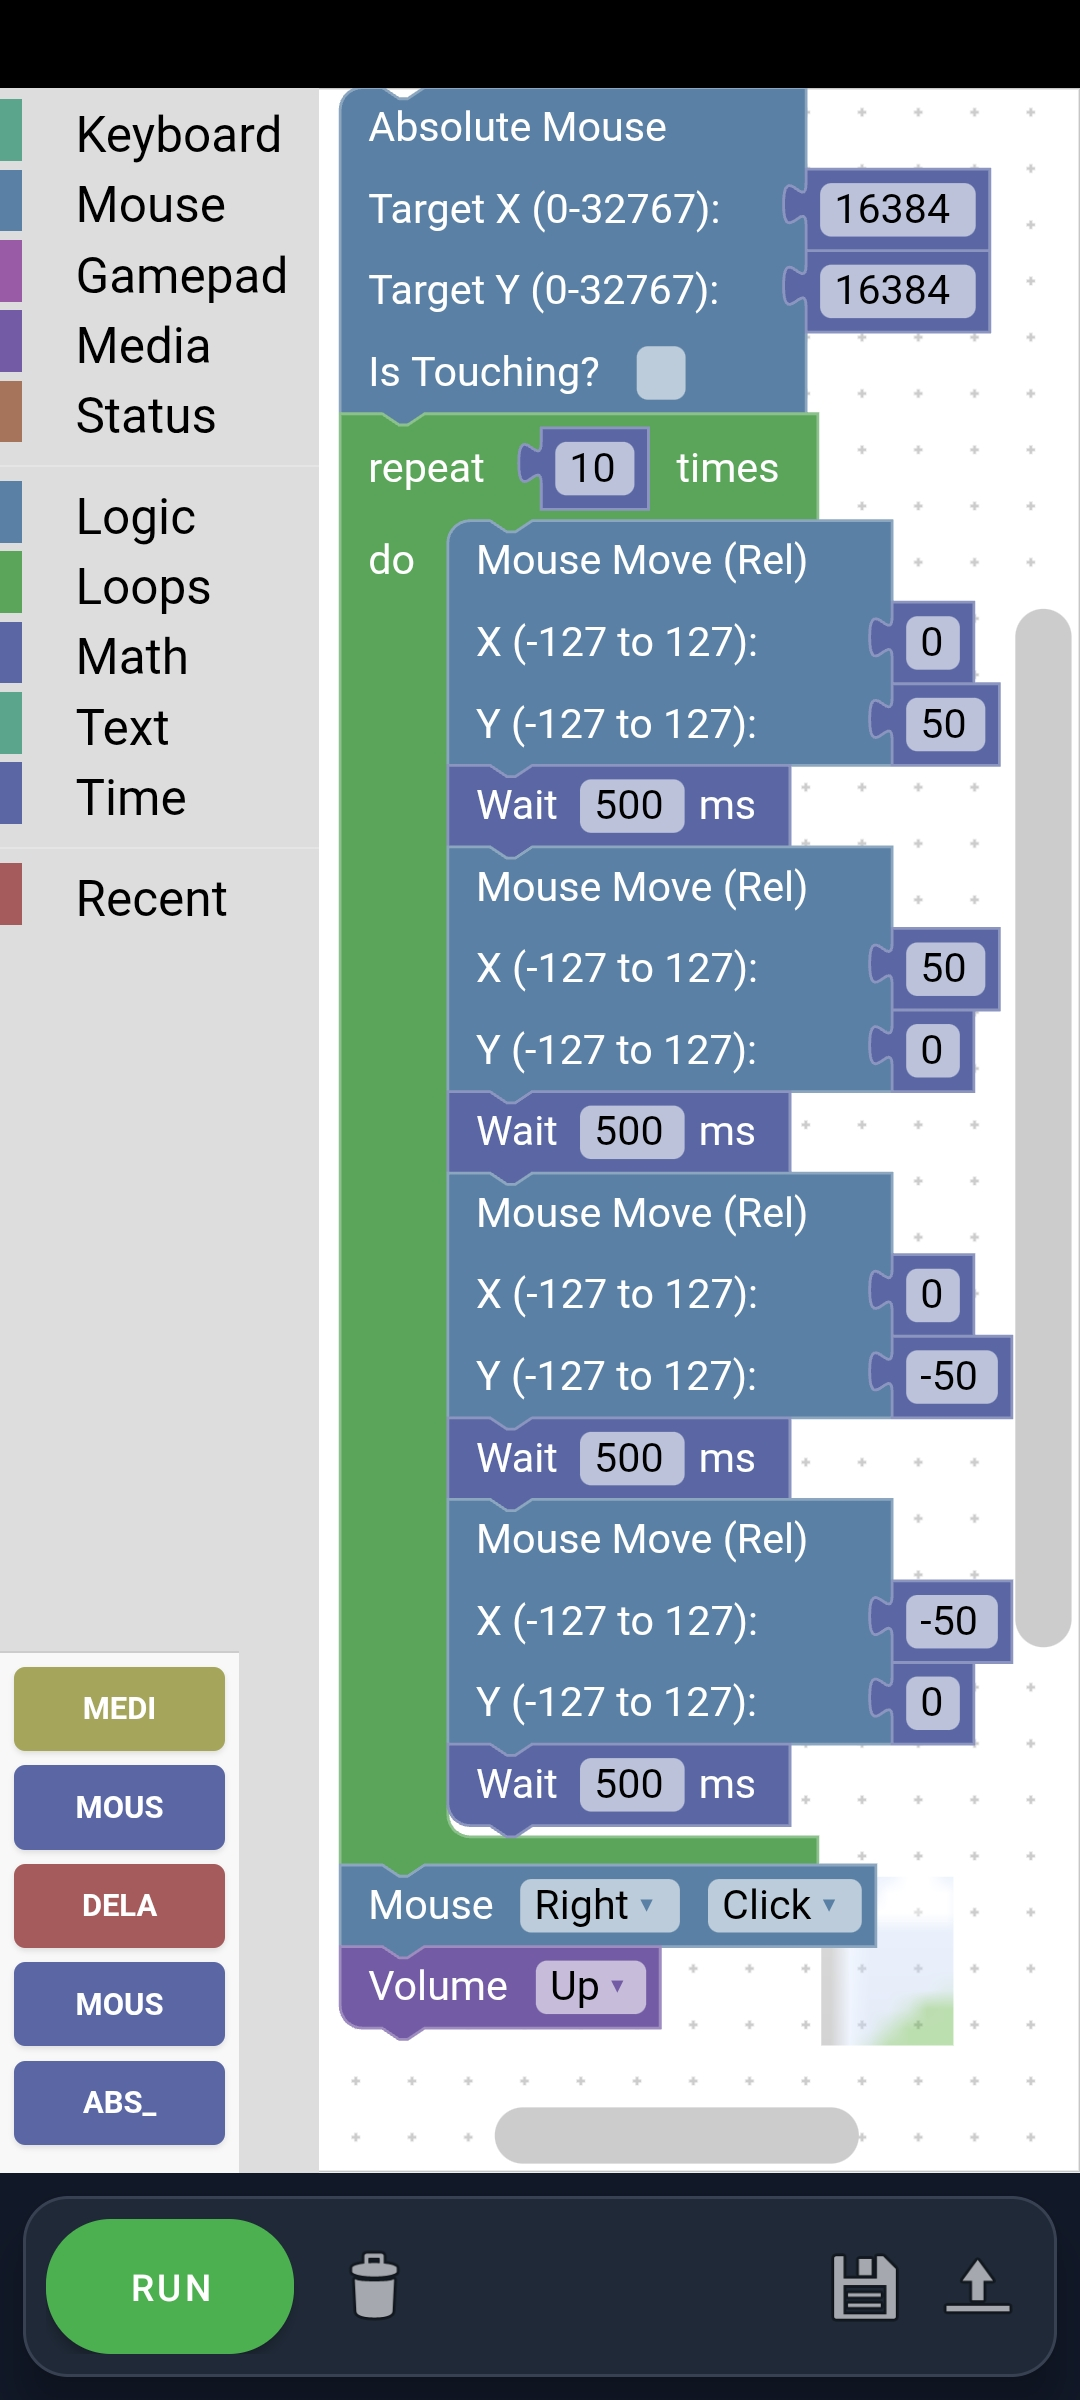
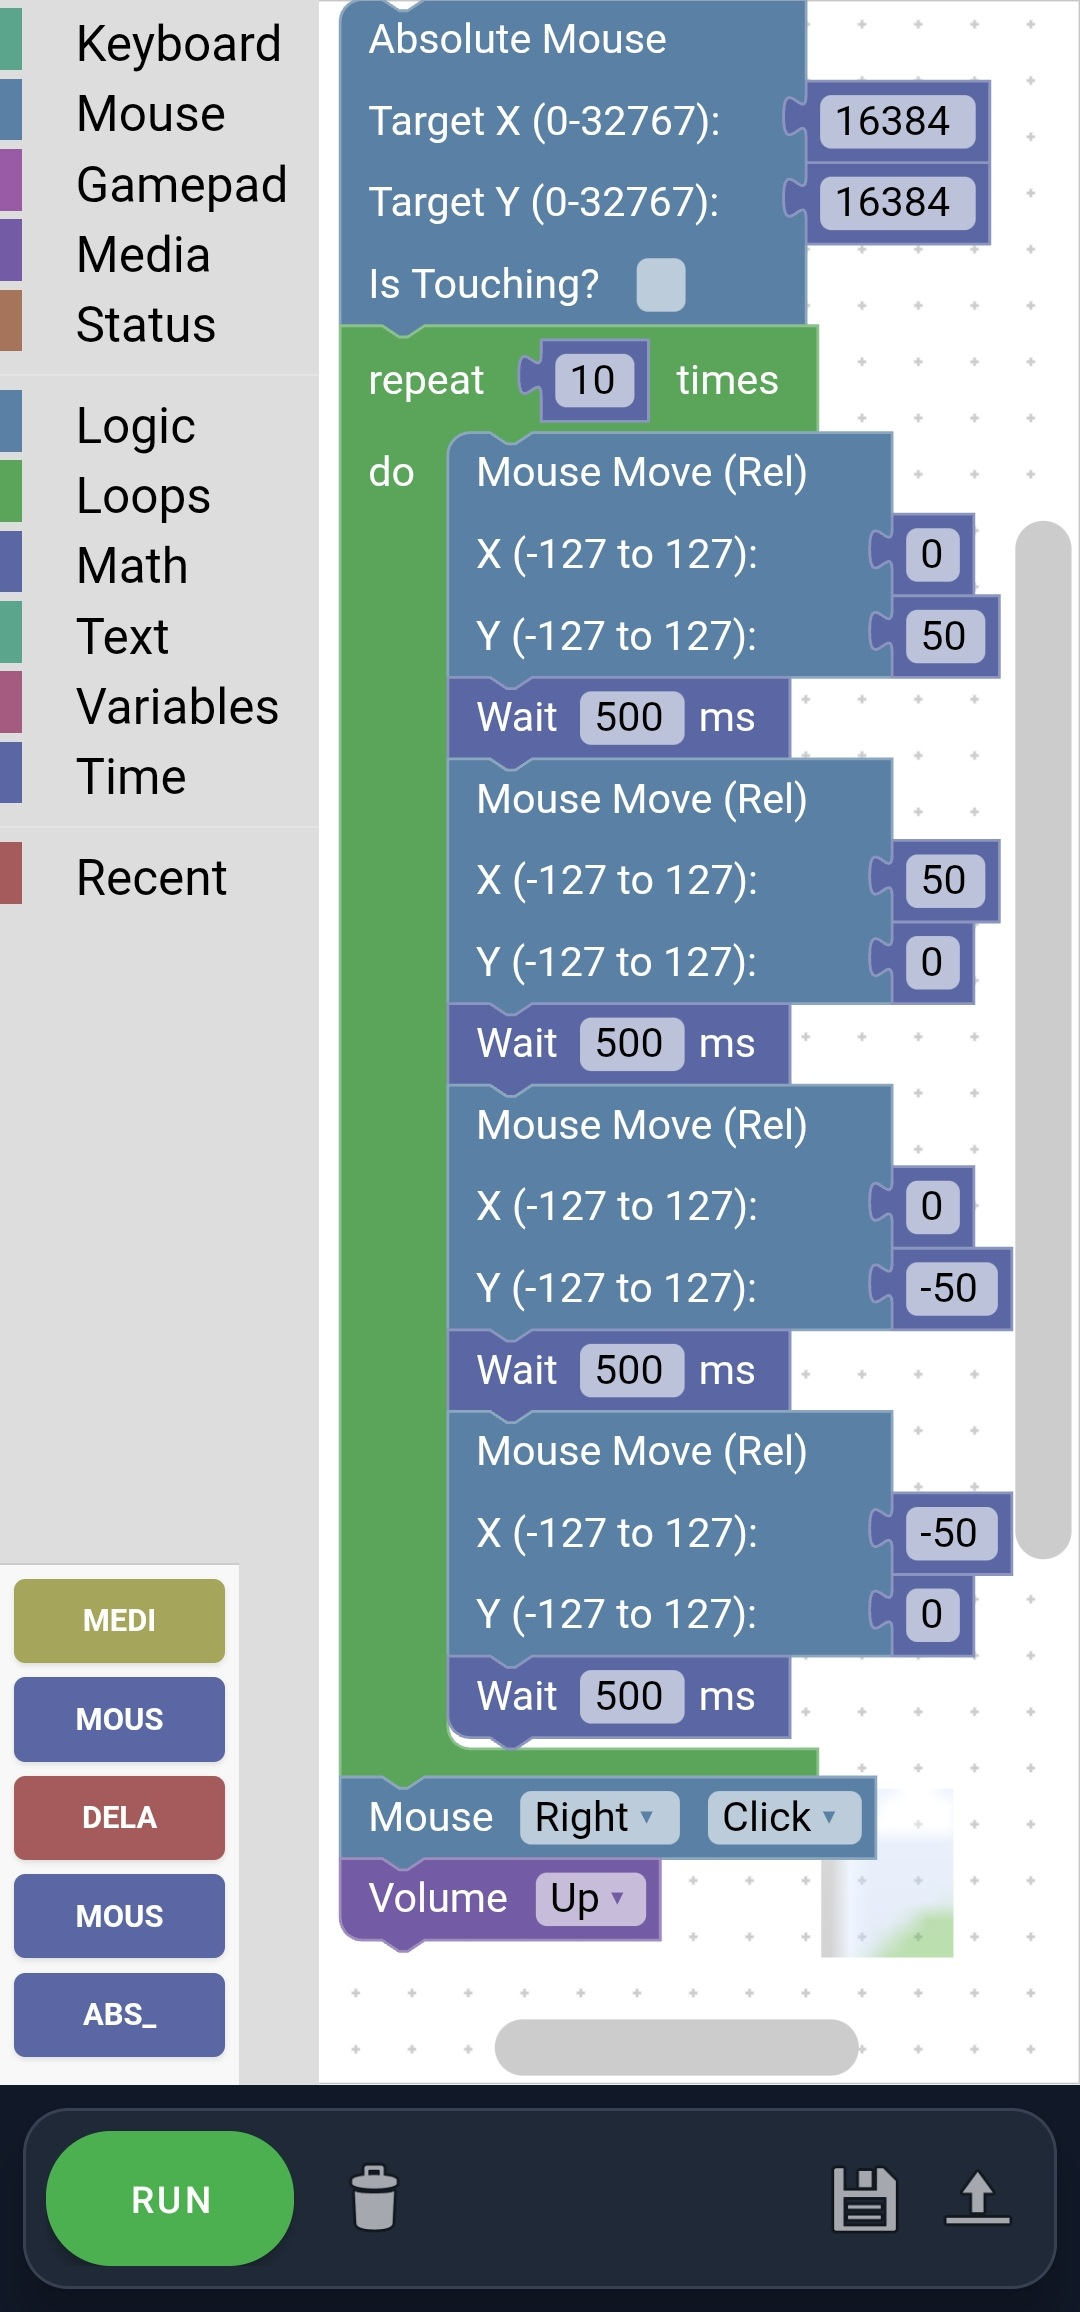
Release version 2.6

Changed region(s): [[0.0, 0.0, 1.0, 0.9654], [0.7944, 0.8097, 0.8861, 0.872], [0.0611, 0.3737, 0.2139, 0.4048]]

diff --git a/README.md b/README.md
@@ -1,66 +1,136 @@
 # BLE_HID_EXAMPLE
-Example of HID over GATT (Bluetooth Low Energy) Android Application. The application emulates a peripheral BLE device (mouse, keyboard, gamepad, digitizer, and consumer remote) that can be connected to a PC, tablet, or smartphone.
+
+[![Android 15 Ready](https://img.shields.io/badge/Android-15%20(API%2035)-brightgreen.svg)](https://developer.android.com)
+[![Gradle 9.6.0](https://img.shields.io/badge/Gradle-9.6.0-blue.svg)](https://gradle.org)
+[![AGP 9.4.1](https://img.shields.io/badge/AGP-9.4.1-blue.svg)](https://developer.android.com/build)
+[![License](https://img.shields.io/badge/License-Apache%202.0-orange.svg)](LICENSE)
+
+An advanced, modern Android application that emulates a versatile **Bluetooth Low Energy (BLE) Human Interface Device (HID) peripheral**. It turns an Android smartphone or tablet into a multi-functional virtual **Keyboard, Touchpad Mouse, Full Gamepad Controller, Absolute Digitizer, Consumer Media Remote, and Blockly Scripting Automation Engine**.
 
 The application consists of 7 full-screen fragments. When more than one device is connected, notifications can be routed to all connected devices simultaneously or toggled individually per host.
 
-## Blockly fragment (Automation & Macros)
-<img src="screenshots/blockly.jpg" width="300" />
+---
 
-- **Visual Programming Workspace** - drag-and-drop Google Blockly interface to build custom HID macros and automated scripts.
-- **Rich Block Library** - includes blocks for keyboard text/keys, mouse movement, clicks, scrolling, absolute positioning, gamepad sticks/buttons, consumer media controls, delays, loops, and conditional logic.
-- **Run / Stop Execution** - execute programmed scripts in real-time or stop execution with a single tap.
-- **Save & Load** - save macros to internal storage and reload them whenever needed.
-- **Stash Bar** - quick access bar for frequently used blocks.
+<p align="center">
+  <img src="screenshots/demo.webp" alt="BLE HID Example Demo" width="640" />
+</p>
+
+---
+
+## 📥 Download & Installation
+
+[![Download Latest Release APK](https://img.shields.io/badge/Download-v2.6.0%20APK-brightgreen.svg?style=for-the-badge&logo=android)](https://github.com/04Alek04/BLE_HID_EXAMPLE/releases/latest)
+
+1. **Download the APK:** Tap the button above or visit the [GitHub Releases Page](https://github.com/04Alek04/BLE_HID_EXAMPLE/releases/latest) to download `BLE_HID_EXAMPLE.apk`.
+2. **Install on Android:** Open the downloaded `.apk` file on your device (allow *"Install from unknown sources"* if prompted).
+3. **Pair & Control:** Open the app, grant Bluetooth permissions, and pair your phone with your PC or host device in Bluetooth Settings.
+
+---
+
+## Blockly fragment (Automation & Macros)
+<img src="screenshots/blockly.jpg" width="300" alt="Blockly Fragment" />
+
+- **Visual Programming Workspace** - drag-and-drop Google Blockly interface to build custom HID macros and automated scripts over BLE.
+- **Rich Block Library** - includes blocks for text typing, keyboard hotkeys, relative mouse movement, clicks, scrolling, absolute positioning, gamepad buttons/sticks, consumer media controls, delays, loops, variables, and conditional logic.
+- **Run / Stop Execution** - execute programmed scripts in real-time or stop execution with a single tap (instantly flushes native BLE notification queues).
+- **Save & Load** - save macros directly to internal storage (`macro_autosave.xml`) and reload them whenever needed.
+- **UTF-8 Polish Character Support** - full Base64 UTF-8 encoding support for saving and loading scripts with special characters.
 
 ## Configuration fragment
-<img src="screenshots/configuration.jpg" width="300" />
+<img src="screenshots/configuration.jpg" width="300" alt="Configuration Fragment" />
 
-- **Reboot application button** - restarts the application and the Bluetooth stack. Useful for refreshing the connection state if any issues occur.
+- **Reboot application button** - cleanly restarts the application, the GATT server, and the Bluetooth advertising stack to recover stalled connections instantly.
 - **Clear configs button** - deletes saved device pairings and configurations if connection issues occur.
 - **List of connected devices with toggles** - displays connected hosts with individual switches to enable or disable HID notification routing per device.
+- **Simultaneous Multi-Host Playback Example** - route Consumer Media commands (like Play/Pause or Stop) to multiple connected devices at once (e.g. starting or pausing a video simultaneously on a PC and a tablet connected at the same time).
+- **Restore Bluetooth Name** - option to restore the original Bluetooth device name on exit.
+- **Real-Time Device Status Bar** - persistent bottom status bar displaying live BLE connection state and active target host information.
 
 ## Consumer control fragment
-<img src="screenshots/consumer.jpg" width="300" />
+<img src="screenshots/consumer.jpg" width="300" alt="Consumer Control Fragment" />
 
-- **Music/player control** - buttons for previous track, stop, play/pause, and next track.
-- **Volume & Brightness** - quick adjustments for sound and screen brightness.
-- **System control** - perform system actions like sleep, hibernation, shut down, or restart.
-- **Application launch** - start selected applications such as a calculator or web browser. Supported by specific operating systems.
-- **Application control** - perform actions like "help" or "search" in the currently focused app. Note: these actions are highly application-specific.
+- **Music/player control** - buttons for Previous Track, Stop, Play/Pause, and Next Track.
+- **Volume & Brightness** - quick adjustments for sound volume (+/-), mute, and screen brightness (+/-).
+- **System control** - perform system actions like Sleep, Hibernation, Shut Down, Cold Restart, Warm Restart, Eject, and Camera Snapshot.
+- **Application launch dropdown** - select and launch operating system applications (Calculator, Web Browser, Email, Text Editor, Spreadsheet, Calendar, etc.).
+- **Application control dropdown** - perform app-level commands like New, Open, Save, Close, Print, Undo, Copy, Cut, Paste, Select All, Find, Search, and Zoom.
 
 ## Mouse fragment
-<img src="screenshots/mouse.jpg" width="300" />
+<img src="screenshots/mouse.jpg" width="300" alt="Mouse Fragment" />
 
-- **Buttons (1, 2, 3, 4, 5)** - emulates standard mouse button clicks (Left, Right, Middle, Button 4, Button 5).
-- **Touchpad area** - move the cursor; double-tap emulates a left-click.
+- **Buttons (1, 2, 3, 4, 5)** - emulates standard mouse button clicks (Left, Right, Middle, Button 4 / Back, Button 5 / Forward).
+- **Touchpad area** - smooth relative cursor control with double-tap left click and delta-motion merging for zero cursor jitter.
 - **Horizontal Scroll bar** - smooth horizontal panning/scrolling (h-scroll / tilt wheel).
-- **Volume buttons** - the phone's physical volume up/down buttons emulate the vertical mouse scroll wheel.
+- **Physical Volume buttons** - the phone's physical volume up/down buttons map to vertical mouse scroll wheel actions.
 
 ## Keyboard fragment
-<img src="screenshots/keyboard.jpg" width="300" />
+<img src="screenshots/keyboard.jpg" width="300" alt="Keyboard Fragment" />
 
-- **Send text** - type a phrase and send it to the computer all at once.
-- **Send character** - a dropdown list to select and send a single special character or function key.
-- **Keyboard shortcuts** - dedicated buttons for common actions like Ctrl+C, Ctrl+V, Ctrl+Z, Ctrl+A, and more.
-- **LED indicators** - shows the real-time status of Caps Lock, Num Lock, and Scroll Lock received from the host.
-- **Keyboard On/Off** - enables or disables the software keyboard for direct live typing with smart Caps Lock synchronization.
+- **Send text & Clipboard Link Sharing** - type or paste a long URL link, password, or clipboard text snippet on your phone and send it all at once to the computer without typing letter-by-letter.
+- **Send character** - a dropdown list to select and send single special characters or function keys (F1–F24, Esc, Tab, Backspace, Enter).
+- **Polish & Accent Characters** - native AltGr (`META_RIGHT_ALT`) mapping for Polish letters (`ą`, `ć`, `ę`, `ł`, `ń`, `ó`, `ś`, `ź`, `ż`).
+- **Keyboard shortcuts** - dedicated buttons for common actions: Undo (Ctrl+Z), Redo (Ctrl+Y), Save (Ctrl+S), Paste (Ctrl+V), Cut (Ctrl+X), Copy (Ctrl+C), Select All (Ctrl+A), Find (Ctrl+F), Replace (Ctrl+H).
+- **LED indicators** - real-time status feedback for Caps Lock, Num Lock, and Scroll Lock received from the host.
+- **Keyboard On/Off Toggle** - enables or disables the software keyboard for direct live typing with smart Caps Lock XOR logic.
 
 ## Gamepad fragment
-<img src="screenshots/gamepad.jpg" width="300" />
+<p align="left">
+  <img src="screenshots/gamepad.jpg" width="300" alt="Gamepad Analog Sticks Mode" />
+  &nbsp;&nbsp;
+  <img src="screenshots/gamepad2.jpg" width="300" alt="Gamepad D-Pad & ABXY Mode" />
+</p>
 
-- **Dual Analog Sticks / D-Pad** - virtual L-Stick and R-Stick with octagonal bases, double-tap for L3/R3 clicks, and toggles to switch between analog stick or digital D-Pad / button modes.
+- **Dual Analog Sticks / D-Pad** - virtual L-Stick and R-Stick with octagonal bases, double-tap L3/R3 clicks, and independent toggles to switch between analog stick or digital D-Pad / ABXY button modes.
 - **Action Buttons (BT0 - BT3)** - standard ABXY style action button diamond.
 - **Shoulder Buttons & Triggers** - dedicated LB, RB, LT, and RT buttons.
 - **Touchpad & System Keys** - integrated central touchpad area and MENU / START system buttons.
 - **Control Toggles** - independent toggles for L-Stick, Touchpad, Tab Swiping Lock, and R-Stick.
+- **Physical Volume Buttons** - physical volume up/down buttons map to shoulder/action buttons in Gamepad mode.
 
 ## Absolute Mouse fragment
-<img src="screenshots/absolute_mouse.jpg" width="300" />
+<img src="screenshots/absolute_mouse.jpg" width="300" alt="Absolute Mouse Fragment" />
 
-- **Full-Screen Touch Surface** - absolute 0–32767 coordinate mapping for touchscreen and digitizer emulation.
+- **Full-Screen Touch Surface & Digital Drawing** - absolute 0–32767 coordinate mapping for touchscreen/digitizer emulation, ideal for drawing, sketching in MS Paint/Photoshop, or signing documents on PC using your phone screen.
 - **Triple-Tap Exit** - triple-tap anywhere inside the touch frame to exit back to standard mouse mode.
 - **Physical Volume Buttons** - physical volume up/down buttons map to primary and secondary touch/click states.
 - **Real-Time Coordinate Feedback** - displays live X/Y absolute coordinates.
+
+---
+
+## 🛠 Windows Auto-Reconnect Script (`win_reconnect.ps1`)
+
+The repository includes a PowerShell recovery script (`win_reconnect.ps1`) designed for Windows 10/11 hosts:
+
+```powershell
+Set-ExecutionPolicy -Scope Process -ExecutionPolicy Bypass; .\win_reconnect.ps1
+```
+
+* **Fast Reconnect:** Queries paired BLE HID devices and forces uncached GATT service discovery.
+* **Automatic Radio Recovery:** If Windows GATT stack hangs (`Unreachable`), the script automatically restarts `bthserv` and resets the Windows Bluetooth Radio Adapter PnP driver to restore active connection instantly.
+
+---
+
+## 🧪 Testing
+
+The project features a full automated testing strategy with **29 passing tests**:
+
+* **20 Unit Tests**
+* **9 Espresso UI & Storage Tests**
+
+---
+
+## What's new in version 2.6
+- **Full compatibility with Android 12+** and updated app navigation using ViewPager2.
+- **Added a Variables tab in Blockly** for creating more advanced scripts.
+- **Improved Windows integration** with a new PowerShell script for seamless reconnections (restarts Bluetooth adapter and cleans up old sessions).
+- **Devices are now always properly recognized** with the "(HID)" prefix.
+- **Optimized battery status updates** to use system receivers instead of draining resources with 60-second polling.
+- **Resolved BLE connection stability** and Windows driver errors by fixing race conditions in GATT database and ADV reports.
+- **Significantly improved text input stability** and fixed a rare bug that caused keys to get stuck.
+- **Fixed Blockly execution in release builds** by handling code minification, added protection against infinite loops, and fixed UTF-8 handling.
+- **Upgraded the tech stack** to Gradle 9.6.0, AGP 9.4.1, compileSdk 35, and updated AndroidX dependencies.
+- **Added comprehensive automated UI and Unit tests.**
+- **Refactored the architecture** by migrating to ViewBinding, introducing new helper classes (like AppPreferencesManager and TouchInputCalculator), and removing "magic values."
 
 ---
 
